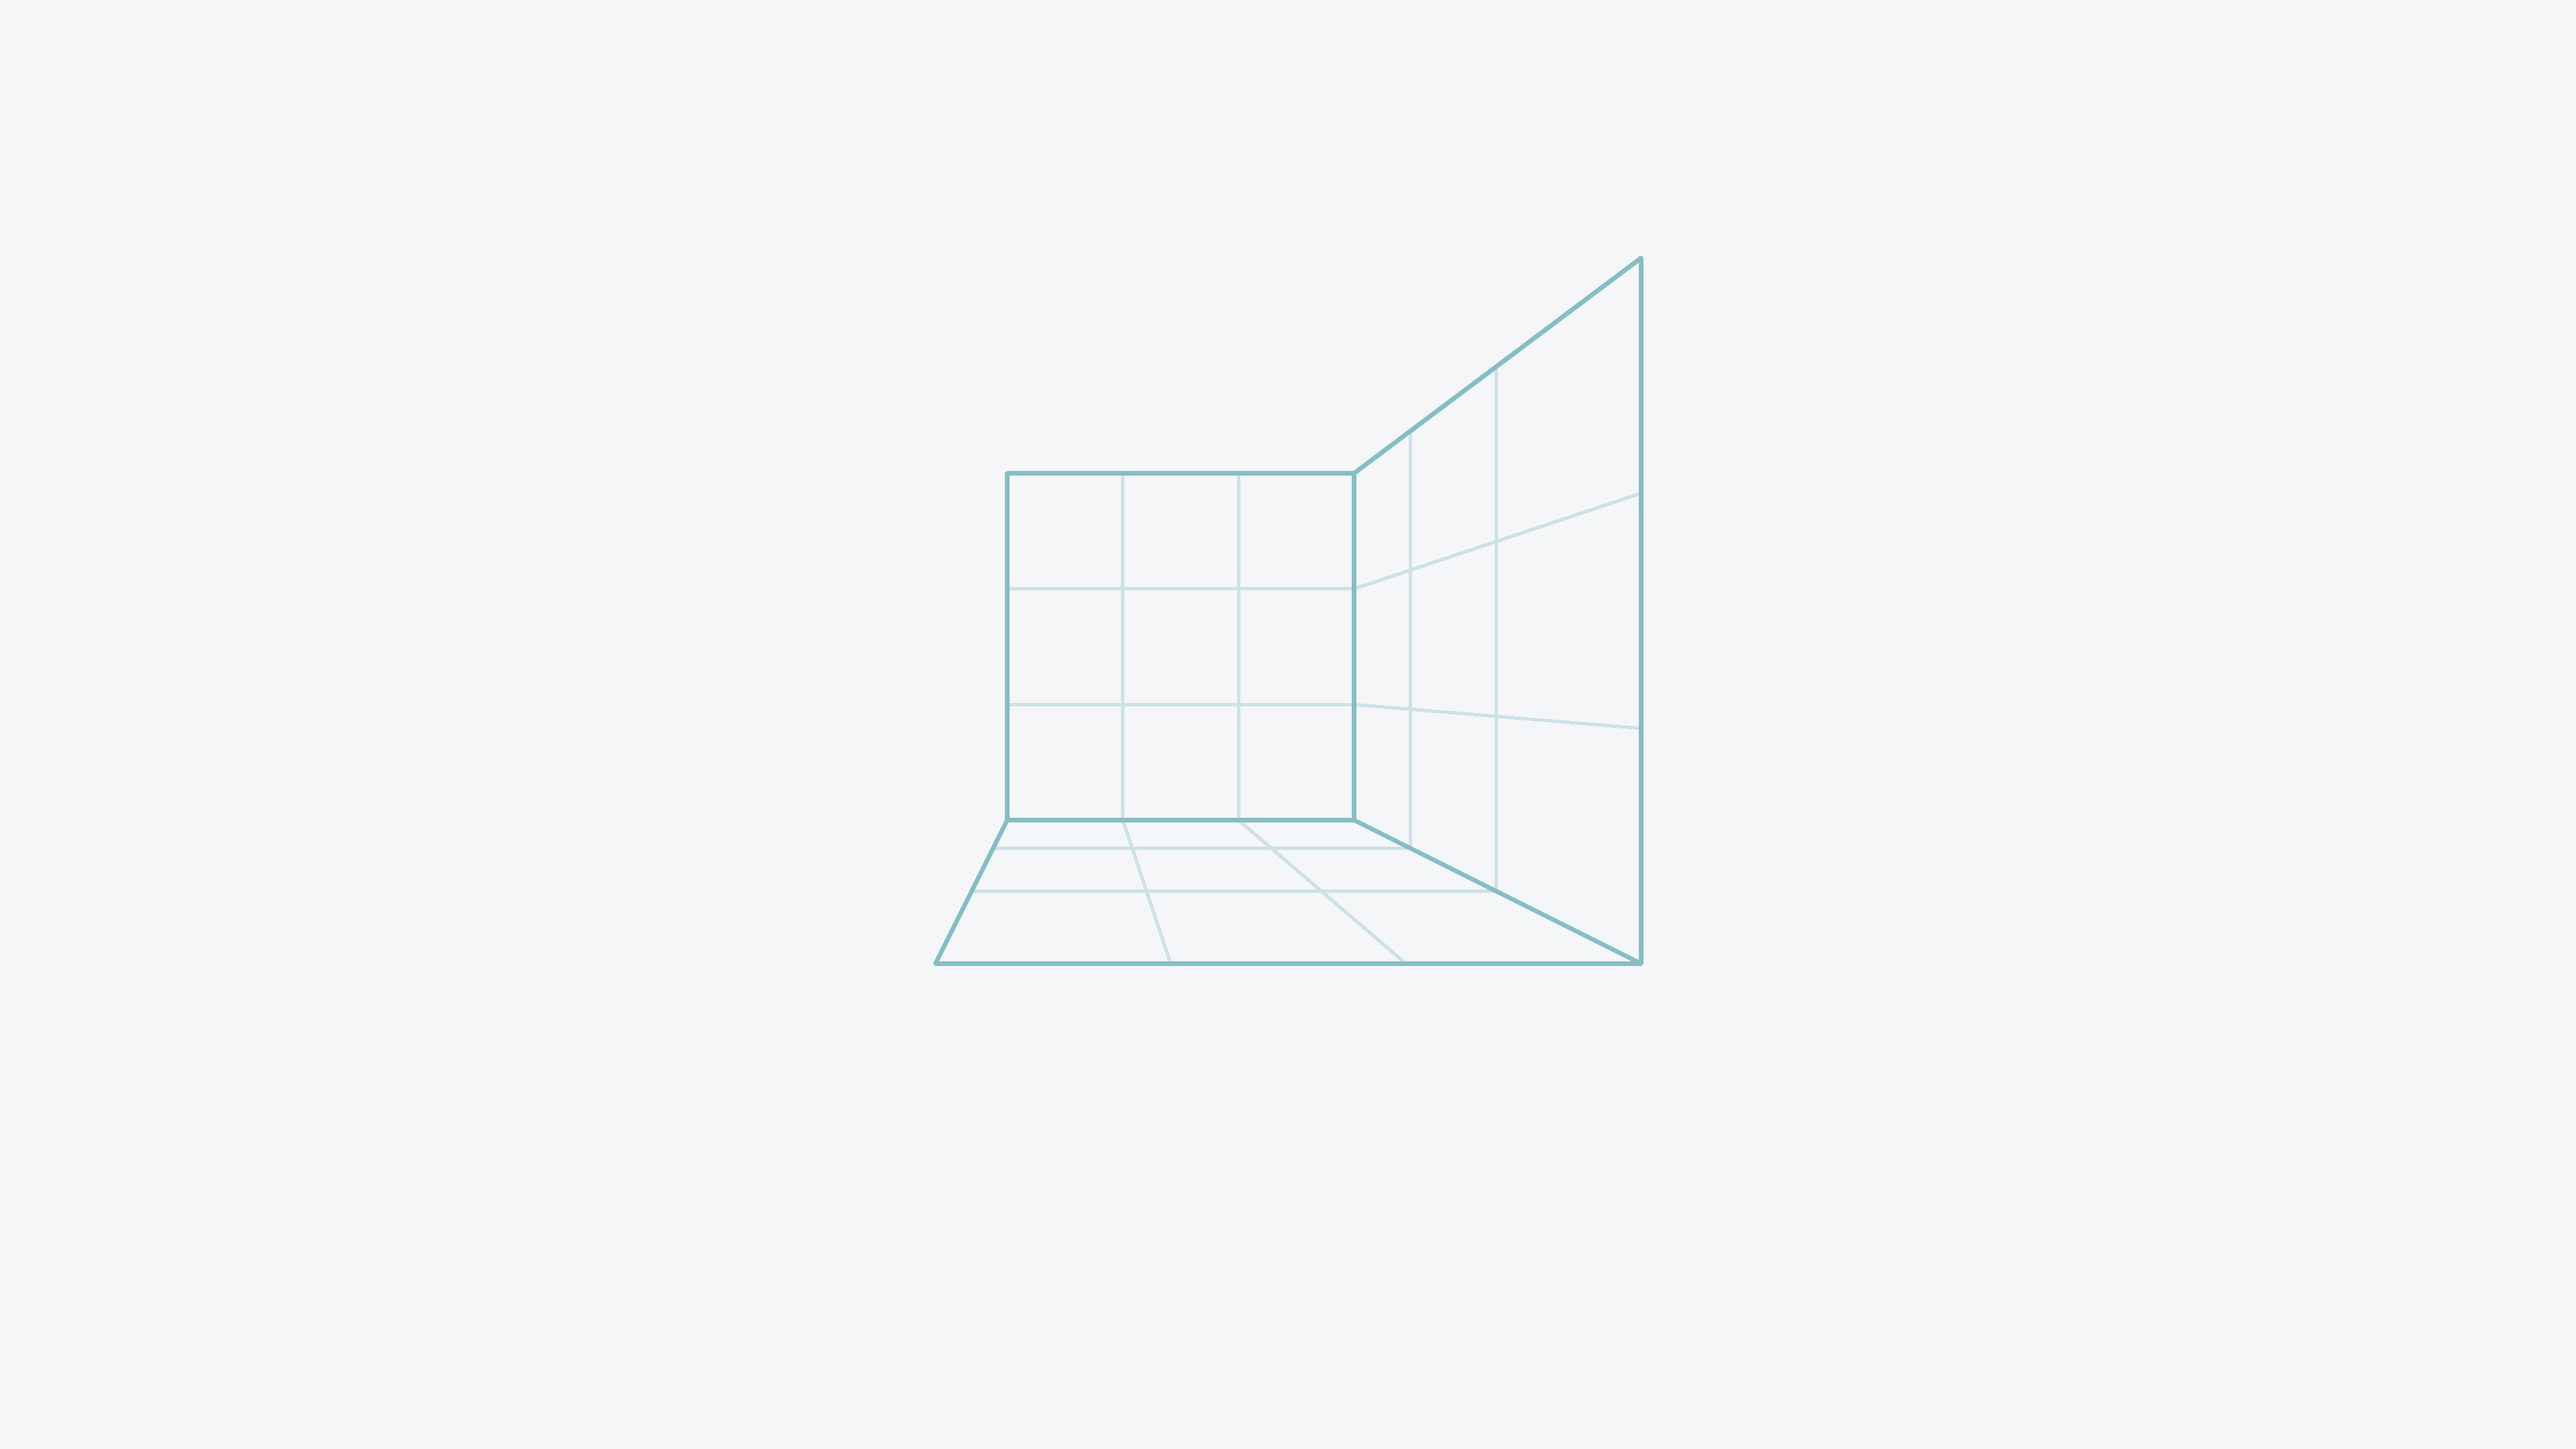
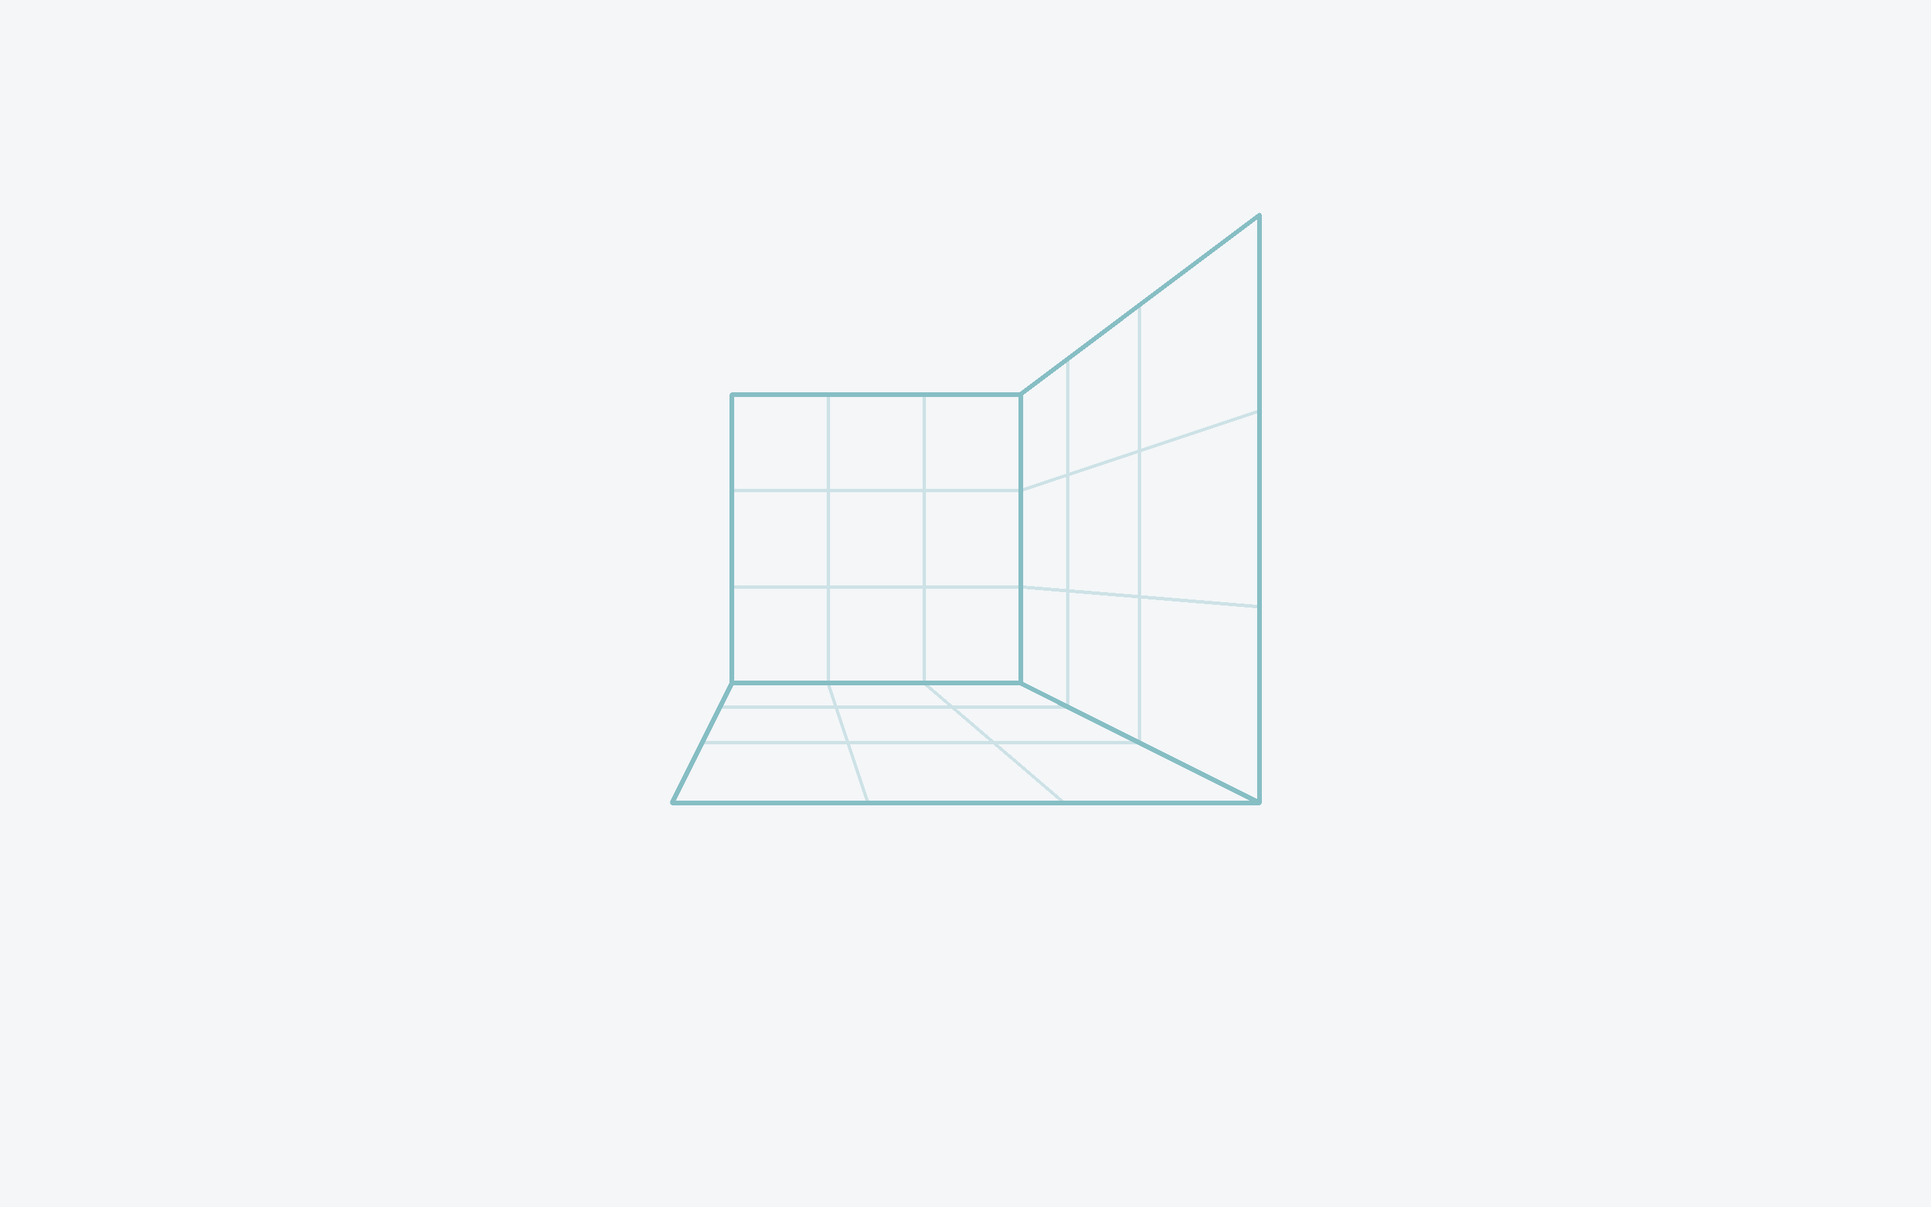
Make the wallpapers 16:10 and offer them to Settings
They were 3840x2160: a 16:9 4K image that GNOME, zooming to cover the
ThinkPad X9's 2880x1800 panel, scaled down and cropped at the sides,
where the room's walls run out. They are 2880x1800 now; a 16:9 screen
loses a strip of plain background at the top and the bottom instead.

wallpaper.py also writes construct.xml, the gnome-background-properties
entry Settings lists backgrounds from: the light image with the dark one
as filename-dark, zoom, and a solid ink primary color, so the pair
switches with the color scheme like GNOME's own. The paths are where the
image is to install them, /usr/share/backgrounds/construct.

diff --git a/wallpaper.py b/wallpaper.py
@@ -8,11 +8,14 @@ import palette, room
 # held still and set back behind the windows. Same camera and room as video.py; no word, the
 # top bar and the dock already say whose desktop it is.
 # One image per mode: the dark one is the boot's cyan on ink, quieter; the light one draws the
-# room in the light accent on paper. GNOME scales them to the screen, so they are made once, at
-# 4K.
+# room in the light accent on paper. GNOME zooms them to the screen, so they are made once, at
+# 16:10 and 2880x1800, the ThinkPad X9's panel; a 16:9 screen crops a little from the top and
+# the bottom, where there is only background.
+# construct.xml offers the pair to Settings (gnome-background-properties): the light one with
+# the dark one for dark mode, as GNOME's own backgrounds are, the ink as the color behind them.
 OUT = sys.argv[1] if len(sys.argv) > 1 else "wallpapers"
-W = int(sys.argv[2]) if len(sys.argv) > 2 else 3840
-H = int(sys.argv[3]) if len(sys.argv) > 3 else 2160
+W = int(sys.argv[2]) if len(sys.argv) > 2 else 2880
+H = int(sys.argv[3]) if len(sys.argv) > 3 else 1800
 os.makedirs(OUT, exist_ok=True)
 PAL = palette.load()
 U = H / 1080  # design px, as in video.py
@@ -49,4 +52,20 @@ for mode, (bg, ink, lo, lg, glow) in MODES.items():
     img = rgb(bg) + (rgb(ink) - rgb(bg)) * a
     cv2.imwrite(f"{OUT}/construct-{mode}.png", (img * 255).round().astype(np.uint8),
                 [cv2.IMWRITE_PNG_COMPRESSION, 9])
-print(f"{OUT}/: construct-dark.png, construct-light.png ({W}x{H})")
+
+# Where the image installs them: the paths are absolute, as Settings reads them.
+DIR = "/usr/share/backgrounds/construct"
+open(f"{OUT}/construct.xml", "w").write(f"""<?xml version="1.0" encoding="UTF-8"?>
+<!DOCTYPE wallpapers SYSTEM "gnome-wp-list.dtd">
+<wallpapers>
+  <wallpaper deleted="false">
+    <name>CONSTRUCT</name>
+    <filename>{DIR}/construct-light.png</filename>
+    <filename-dark>{DIR}/construct-dark.png</filename-dark>
+    <options>zoom</options>
+    <shade_type>solid</shade_type>
+    <pcolor>{PAL["brand"]["ink"]}</pcolor>
+  </wallpaper>
+</wallpapers>
+""")
+print(f"{OUT}/: construct-dark.png, construct-light.png ({W}x{H}), construct.xml")

diff --git a/README.md b/README.md
@@ -57,7 +57,7 @@ same images on any machine. `task image` builds it; every task that needs it bui
 | `task plymouth` | Transparent PNGs per frame for Plymouth in `plymouth/`, compressed with pngquant |
 | `task logo` | The logo in `logos/`: SVG in color, GNOME symbolic and Orchis' Activities button, PNG from 16 to 64 px |
 | `task palette` | Checks `palette.toml`'s contrast and writes it for the theme forks into `palette/` ([THEMING.md](THEMING.md)) |
-| `task wallpaper` | The desktop backgrounds, dark and light, at 4K into `wallpapers/` |
+| `task wallpaper` | The desktop backgrounds, dark and light, at 2880×1800 (16:10), and `construct.xml`, which offers them in Settings, into `wallpapers/` |
 | `task preview` | Opens `preview.html`: the desktop with the palette, in dark and light; GitHub Pages publishes it from `main` |
 | `task compress` | Runs pngquant over `plymouth/*.png` again, replacing the files |
 | `task check` | Fails if the committed `plymouth/`, `logos/`, `wallpapers/` and `palette/` are not what the sources make |
@@ -96,7 +96,8 @@ task plymouth QUALITY=65-85              # more aggressive pngquant
 - `logo.py [out_dir]`: the logo files.
 - `palette.py [out_dir]`: checks the palette's contrast and writes it out; `palette.load()` is what
   the other generators read the colors from.
-- `wallpaper.py [out_dir] [width] [height]`: the dark and light desktop backgrounds.
+- `wallpaper.py [out_dir] [width] [height]`: the dark and light desktop backgrounds and their
+  `gnome-background-properties` entry.
 - `room.py`: the room, its camera and its lines, which `video.py`, `wallpaper.py` and `logo.py`
   all draw.
 - `check.py <committed_dir> <regenerated_dir>`: compares two sets of images over black.
